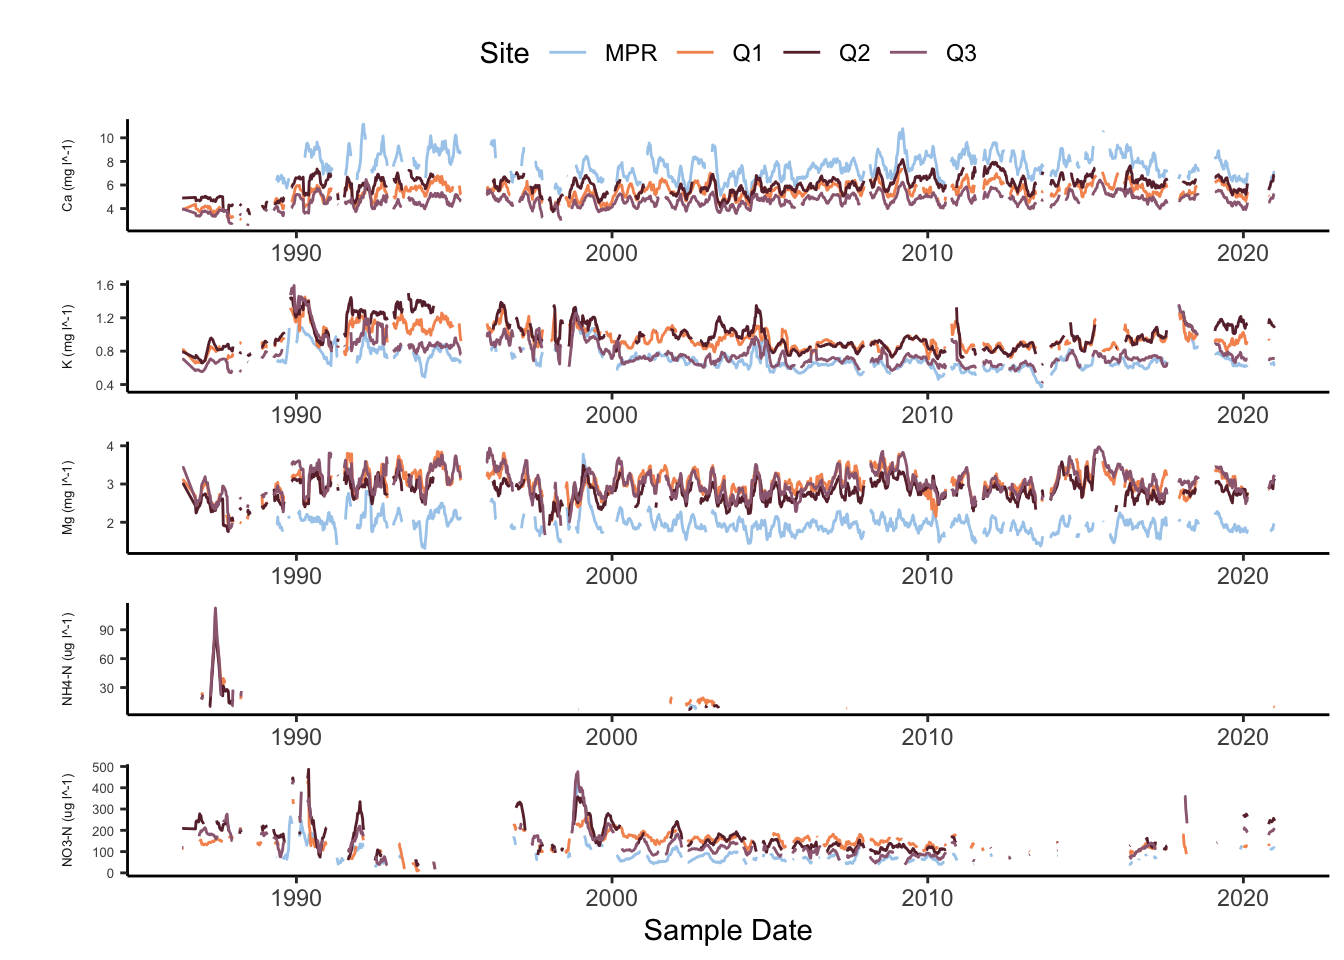
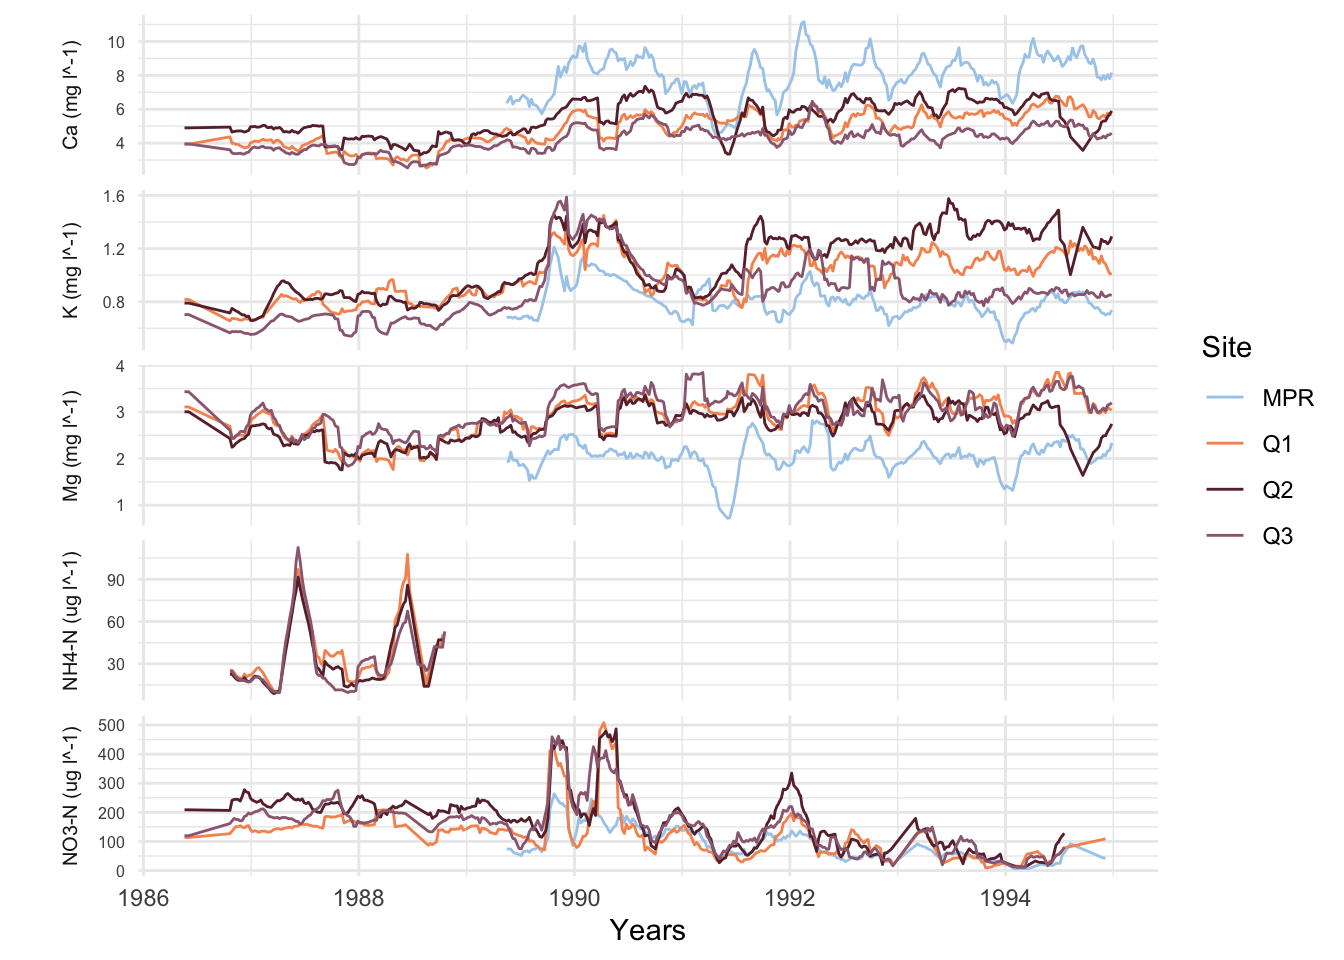
prettier graph

diff --git a/paper/paper.html b/paper/paper.html
@@ -118,25 +118,25 @@ pre > code.sourceCode > span > a:first-child::before { text-decoration: underlin
 <div class="cell">
 <div class="sourceCode cell-code" id="cb4"><pre class="sourceCode r code-with-copy"><code class="sourceCode r"><span id="cb4-1"><a href="#cb4-1" aria-hidden="true" tabindex="-1"></a><span class="fu">ggplot</span>(conc_mean, <span class="fu">aes</span>(sample_date, roll_mean)) <span class="sc">+</span></span>
 <span id="cb4-2"><a href="#cb4-2" aria-hidden="true" tabindex="-1"></a>  <span class="fu">geom_line</span>(<span class="fu">aes</span>(<span class="at">color =</span> sample_id)) <span class="sc">+</span></span>
-<span id="cb4-3"><a href="#cb4-3" aria-hidden="true" tabindex="-1"></a>  <span class="co">#scale_color_manual(labels = c())</span></span>
+<span id="cb4-3"><a href="#cb4-3" aria-hidden="true" tabindex="-1"></a>  <span class="co">#geom_vline(xintercept = 1989) +</span></span>
 <span id="cb4-4"><a href="#cb4-4" aria-hidden="true" tabindex="-1"></a>  <span class="fu">scale_color_paletteer_d</span>(<span class="st">"nationalparkcolors::Arches"</span>) <span class="sc">+</span></span>
-<span id="cb4-5"><a href="#cb4-5" aria-hidden="true" tabindex="-1"></a>  <span class="fu">facet_wrap</span>(<span class="sc">~</span>nutrient, <span class="at">ncol =</span> <span class="dv">1</span>, <span class="at">scales =</span> <span class="st">"free"</span>, <span class="at">strip.position =</span> <span class="st">"left"</span>,</span>
+<span id="cb4-5"><a href="#cb4-5" aria-hidden="true" tabindex="-1"></a>  <span class="fu">facet_wrap</span>(<span class="sc">~</span>nutrient, <span class="at">ncol =</span> <span class="dv">1</span>, <span class="at">scales =</span> <span class="st">"free_y"</span>, <span class="at">strip.position =</span> <span class="st">"left"</span>,</span>
 <span id="cb4-6"><a href="#cb4-6" aria-hidden="true" tabindex="-1"></a>             <span class="at">labeller =</span> <span class="fu">as_labeller</span>(</span>
 <span id="cb4-7"><a href="#cb4-7" aria-hidden="true" tabindex="-1"></a>               <span class="fu">c</span>(<span class="at">ca =</span> <span class="st">"Ca (mg l^-1)"</span>, </span>
 <span id="cb4-8"><a href="#cb4-8" aria-hidden="true" tabindex="-1"></a>                 <span class="at">k =</span> <span class="st">"K (mg l^-1)"</span>, </span>
 <span id="cb4-9"><a href="#cb4-9" aria-hidden="true" tabindex="-1"></a>                 <span class="at">mg =</span> <span class="st">"Mg (mg l^-1)"</span>, </span>
 <span id="cb4-10"><a href="#cb4-10" aria-hidden="true" tabindex="-1"></a>                 <span class="at">no3_n =</span> <span class="st">"NO3-N (ug l^-1)"</span>, </span>
 <span id="cb4-11"><a href="#cb4-11" aria-hidden="true" tabindex="-1"></a>                 <span class="at">nh4_n =</span> <span class="st">"NH4-N (ug l^-1)"</span>))) <span class="sc">+</span></span>
-<span id="cb4-12"><a href="#cb4-12" aria-hidden="true" tabindex="-1"></a>  <span class="fu">labs</span>(<span class="at">x =</span> <span class="st">"Sample Date"</span>,</span>
+<span id="cb4-12"><a href="#cb4-12" aria-hidden="true" tabindex="-1"></a>  <span class="fu">labs</span>(<span class="at">x =</span> <span class="st">"Years"</span>,</span>
 <span id="cb4-13"><a href="#cb4-13" aria-hidden="true" tabindex="-1"></a>       <span class="at">y =</span> <span class="st">""</span>,</span>
-<span id="cb4-14"><a href="#cb4-14" aria-hidden="true" tabindex="-1"></a>       <span class="at">color =</span> <span class="st">"Site"</span>,</span>
-<span id="cb4-15"><a href="#cb4-15" aria-hidden="true" tabindex="-1"></a>       ) <span class="sc">+</span></span>
-<span id="cb4-16"><a href="#cb4-16" aria-hidden="true" tabindex="-1"></a>  <span class="fu">theme_classic</span>() <span class="sc">+</span></span>
-<span id="cb4-17"><a href="#cb4-17" aria-hidden="true" tabindex="-1"></a>  <span class="fu">theme</span>(<span class="at">strip.background =</span> <span class="fu">element_blank</span>(), <span class="at">strip.placement =</span> <span class="st">"outside"</span>, <span class="at">strip.text.y =</span> <span class="fu">element_text</span>(<span class="at">size =</span> <span class="dv">5</span>), <span class="at">legend.position =</span> <span class="st">"top"</span>, <span class="at">axis.text.y =</span> <span class="fu">element_text</span>(<span class="at">size =</span> <span class="dv">5</span>))</span></code><button title="Copy to Clipboard" class="code-copy-button"><i class="bi"></i></button></pre></div>
+<span id="cb4-14"><a href="#cb4-14" aria-hidden="true" tabindex="-1"></a>       <span class="at">color =</span> <span class="st">"Site"</span>) <span class="sc">+</span></span>
+<span id="cb4-15"><a href="#cb4-15" aria-hidden="true" tabindex="-1"></a>  <span class="fu">theme_minimal</span>() <span class="sc">+</span></span>
+<span id="cb4-16"><a href="#cb4-16" aria-hidden="true" tabindex="-1"></a>  <span class="fu">theme</span>(<span class="at">strip.background =</span> <span class="fu">element_blank</span>(), <span class="at">strip.placement =</span> <span class="st">"outside"</span>, <span class="at">strip.text.y =</span> <span class="fu">element_text</span>(<span class="at">size =</span> <span class="fl">7.5</span>), <span class="at">axis.text.y =</span> <span class="fu">element_text</span>(<span class="at">size =</span> <span class="dv">6</span>))</span></code><button title="Copy to Clipboard" class="code-copy-button"><i class="bi"></i></button></pre></div>
 <div class="cell-output-display">
-<div>
+<div class="quarto-figure quarto-figure-center">
 <figure class="figure">
 <p><img src="paper_files/figure-html/unnamed-chunk-5-1.png" class="img-fluid figure-img" width="672"></p>
+<figcaption>This figure shows the nutrient levels for rivers in Brisley, Puerto Rico</figcaption>
 </figure>
 </div>
 </div>

diff --git a/README.md b/README.md
@@ -1,7 +1,15 @@
-# eds214-water-quality-project
+# eds214-final-project
 
 ## 1 Data
 
 Data is from McDowell, W. and International Institute of Tropical Forestry(IITF), USDA Forest Service.. 2024. Chemistry of stream water from the Luquillo Mountains ver 4923064. Environmental Data Initiative. <https://doi.org/10.6073/pasta/f31349bebdc304f758718f4798d25458> (Accessed 2025-08-26).
 
-## 2 Clean
+-   The raw data can be found in "data"
+-   Cleaned Data can be found in "outputs"" as an RDS
+
+## 2 Analysis Script
+I started out by reading in my data and merging in all sites to one dataset for simplicity while cleaning and analyzing. From there, I cleaned the names and selected the columns needed for my final figure. 
+
+All data was cleaned in "cleaning.R" which can be found in the "R" folder
+
+## 3 Supporting Code
